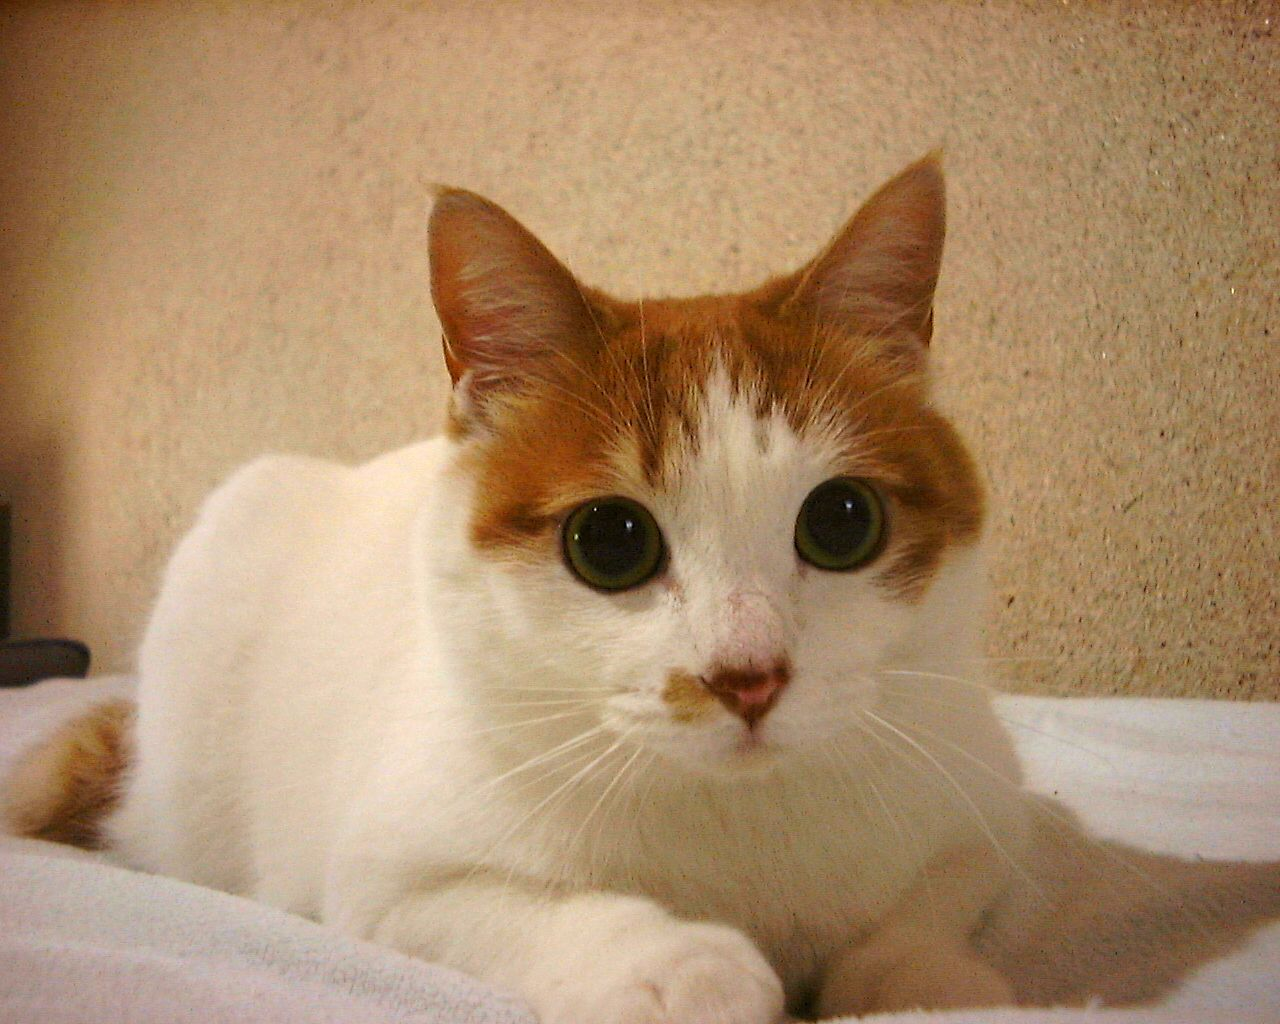
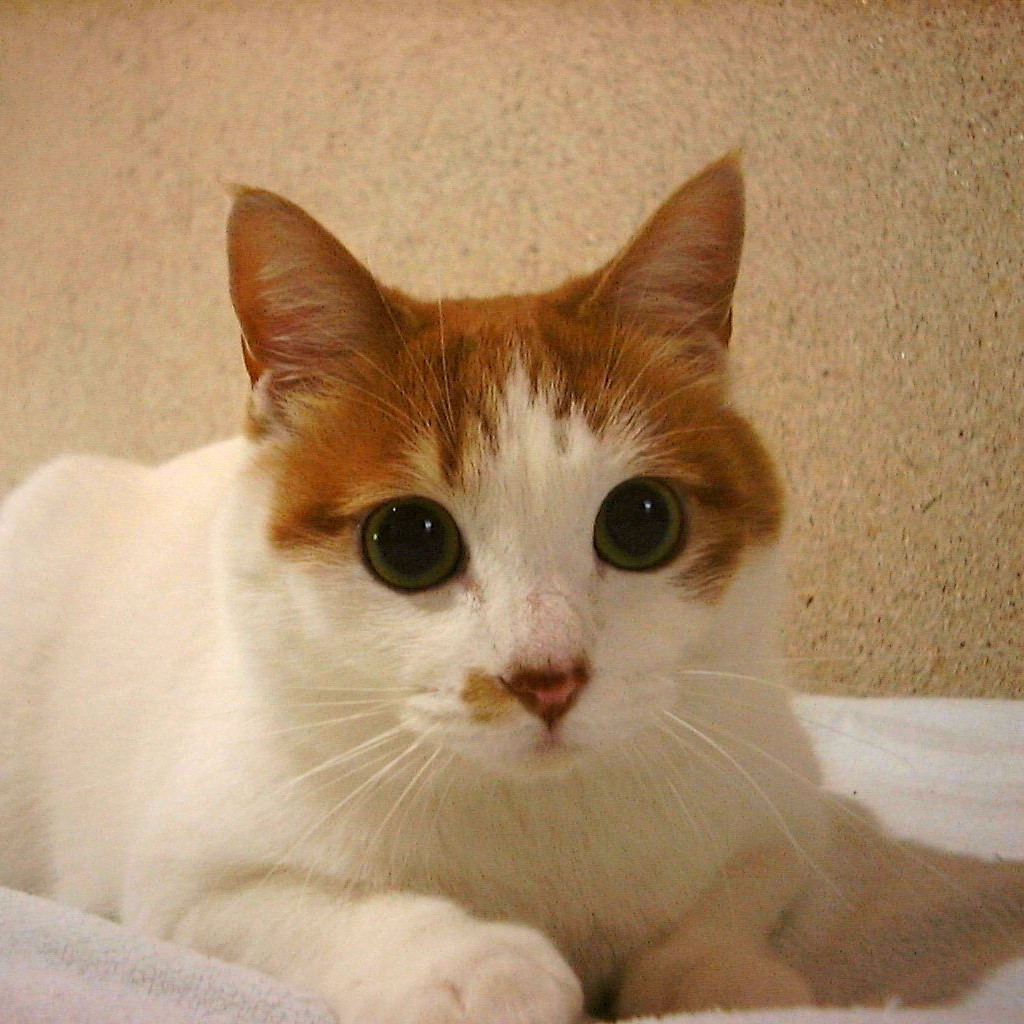
a

diff --git a/album/index2.html b/album/index2.html
@@ -1,0 +1,318 @@
+<!doctype html>
+<html lang="en" data-bs-theme="auto">
+  <head><script src="../assets/js/color-modes.js"></script>
+
+    <meta charset="utf-8">
+    <meta name="viewport" content="width=device-width, initial-scale=1">
+    <meta name="description" content="">
+    <meta name="author" content="Mark Otto, Jacob Thornton, and Bootstrap contributors">
+    <meta name="generator" content="Hugo 0.118.2">
+    <title>Carousel Template · Bootstrap v5.3</title>
+
+    <link rel="canonical" href="https://getbootstrap.com/docs/5.3/examples/carousel/">
+
+    
+
+    <link rel="stylesheet" href="https://cdn.jsdelivr.net/npm/@docsearch/css@3">
+
+<link href="../assets/dist/css/bootstrap.min.css" rel="stylesheet">
+
+    <style>
+      .bd-placeholder-img {
+        font-size: 1.125rem;
+        text-anchor: middle;
+        -webkit-user-select: none;
+        -moz-user-select: none;
+        user-select: none;
+      }
+
+      @media (min-width: 768px) {
+        .bd-placeholder-img-lg {
+          font-size: 3.5rem;
+        }
+      }
+
+      .b-example-divider {
+        width: 100%;
+        height: 3rem;
+        background-color: rgba(0, 0, 0, .1);
+        border: solid rgba(0, 0, 0, .15);
+        border-width: 1px 0;
+        box-shadow: inset 0 .5em 1.5em rgba(0, 0, 0, .1), inset 0 .125em .5em rgba(0, 0, 0, .15);
+      }
+
+      .b-example-vr {
+        flex-shrink: 0;
+        width: 1.5rem;
+        height: 100vh;
+      }
+
+      .bi {
+        vertical-align: -.125em;
+        fill: currentColor;
+      }
+
+      .nav-scroller {
+        position: relative;
+        z-index: 2;
+        height: 2.75rem;
+        overflow-y: hidden;
+      }
+
+      .nav-scroller .nav {
+        display: flex;
+        flex-wrap: nowrap;
+        padding-bottom: 1rem;
+        margin-top: -1px;
+        overflow-x: auto;
+        text-align: center;
+        white-space: nowrap;
+        -webkit-overflow-scrolling: touch;
+      }
+
+      .btn-bd-primary {
+        --bd-violet-bg: #712cf9;
+        --bd-violet-rgb: 112.520718, 44.062154, 249.437846;
+
+        --bs-btn-font-weight: 600;
+        --bs-btn-color: var(--bs-white);
+        --bs-btn-bg: var(--bd-violet-bg);
+        --bs-btn-border-color: var(--bd-violet-bg);
+        --bs-btn-hover-color: var(--bs-white);
+        --bs-btn-hover-bg: #6528e0;
+        --bs-btn-hover-border-color: #6528e0;
+        --bs-btn-focus-shadow-rgb: var(--bd-violet-rgb);
+        --bs-btn-active-color: var(--bs-btn-hover-color);
+        --bs-btn-active-bg: #5a23c8;
+        --bs-btn-active-border-color: #5a23c8;
+      }
+
+      .bd-mode-toggle {
+        z-index: 1500;
+      }
+
+      .bd-mode-toggle .dropdown-menu .active .bi {
+        display: block !important;
+      }
+    </style>
+
+    
+    <!-- Custom styles for this template -->
+    <link href="carousel.css" rel="stylesheet">
+  </head>
+  <body>
+    <svg xmlns="http://www.w3.org/2000/svg" class="d-none">
+      <symbol id="check2" viewBox="0 0 16 16">
+        <path d="M13.854 3.646a.5.5 0 0 1 0 .708l-7 7a.5.5 0 0 1-.708 0l-3.5-3.5a.5.5 0 1 1 .708-.708L6.5 10.293l6.646-6.647a.5.5 0 0 1 .708 0z"/>
+      </symbol>
+      <symbol id="circle-half" viewBox="0 0 16 16">
+        <path d="M8 15A7 7 0 1 0 8 1v14zm0 1A8 8 0 1 1 8 0a8 8 0 0 1 0 16z"/>
+      </symbol>
+      <symbol id="moon-stars-fill" viewBox="0 0 16 16">
+        <path d="M6 .278a.768.768 0 0 1 .08.858 7.208 7.208 0 0 0-.878 3.46c0 4.021 3.278 7.277 7.318 7.277.527 0 1.04-.055 1.533-.16a.787.787 0 0 1 .81.316.733.733 0 0 1-.031.893A8.349 8.349 0 0 1 8.344 16C3.734 16 0 12.286 0 7.71 0 4.266 2.114 1.312 5.124.06A.752.752 0 0 1 6 .278z"/>
+        <path d="M10.794 3.148a.217.217 0 0 1 .412 0l.387 1.162c.173.518.579.924 1.097 1.097l1.162.387a.217.217 0 0 1 0 .412l-1.162.387a1.734 1.734 0 0 0-1.097 1.097l-.387 1.162a.217.217 0 0 1-.412 0l-.387-1.162A1.734 1.734 0 0 0 9.31 6.593l-1.162-.387a.217.217 0 0 1 0-.412l1.162-.387a1.734 1.734 0 0 0 1.097-1.097l.387-1.162zM13.863.099a.145.145 0 0 1 .274 0l.258.774c.115.346.386.617.732.732l.774.258a.145.145 0 0 1 0 .274l-.774.258a1.156 1.156 0 0 0-.732.732l-.258.774a.145.145 0 0 1-.274 0l-.258-.774a1.156 1.156 0 0 0-.732-.732l-.774-.258a.145.145 0 0 1 0-.274l.774-.258c.346-.115.617-.386.732-.732L13.863.1z"/>
+      </symbol>
+      <symbol id="sun-fill" viewBox="0 0 16 16">
+        <path d="M8 12a4 4 0 1 0 0-8 4 4 0 0 0 0 8zM8 0a.5.5 0 0 1 .5.5v2a.5.5 0 0 1-1 0v-2A.5.5 0 0 1 8 0zm0 13a.5.5 0 0 1 .5.5v2a.5.5 0 0 1-1 0v-2A.5.5 0 0 1 8 13zm8-5a.5.5 0 0 1-.5.5h-2a.5.5 0 0 1 0-1h2a.5.5 0 0 1 .5.5zM3 8a.5.5 0 0 1-.5.5h-2a.5.5 0 0 1 0-1h2A.5.5 0 0 1 3 8zm10.657-5.657a.5.5 0 0 1 0 .707l-1.414 1.415a.5.5 0 1 1-.707-.708l1.414-1.414a.5.5 0 0 1 .707 0zm-9.193 9.193a.5.5 0 0 1 0 .707L3.05 13.657a.5.5 0 0 1-.707-.707l1.414-1.414a.5.5 0 0 1 .707 0zm9.193 2.121a.5.5 0 0 1-.707 0l-1.414-1.414a.5.5 0 0 1 .707-.707l1.414 1.414a.5.5 0 0 1 0 .707zM4.464 4.465a.5.5 0 0 1-.707 0L2.343 3.05a.5.5 0 1 1 .707-.707l1.414 1.414a.5.5 0 0 1 0 .708z"/>
+      </symbol>
+    </svg>
+
+    <div class="dropdown position-fixed bottom-0 end-0 mb-3 me-3 bd-mode-toggle">
+      <button class="btn btn-bd-primary py-2 dropdown-toggle d-flex align-items-center"
+              id="bd-theme"
+              type="button"
+              aria-expanded="false"
+              data-bs-toggle="dropdown"
+              aria-label="Toggle theme (auto)">
+        <svg class="bi my-1 theme-icon-active" width="1em" height="1em"><use href="#circle-half"></use></svg>
+        <span class="visually-hidden" id="bd-theme-text">Toggle theme</span>
+      </button>
+      <ul class="dropdown-menu dropdown-menu-end shadow" aria-labelledby="bd-theme-text">
+        <li>
+          <button type="button" class="dropdown-item d-flex align-items-center" data-bs-theme-value="light" aria-pressed="false">
+            <svg class="bi me-2 opacity-50 theme-icon" width="1em" height="1em"><use href="#sun-fill"></use></svg>
+            Light
+            <svg class="bi ms-auto d-none" width="1em" height="1em"><use href="#check2"></use></svg>
+          </button>
+        </li>
+        <li>
+          <button type="button" class="dropdown-item d-flex align-items-center" data-bs-theme-value="dark" aria-pressed="false">
+            <svg class="bi me-2 opacity-50 theme-icon" width="1em" height="1em"><use href="#moon-stars-fill"></use></svg>
+            Dark
+            <svg class="bi ms-auto d-none" width="1em" height="1em"><use href="#check2"></use></svg>
+          </button>
+        </li>
+        <li>
+          <button type="button" class="dropdown-item d-flex align-items-center active" data-bs-theme-value="auto" aria-pressed="true">
+            <svg class="bi me-2 opacity-50 theme-icon" width="1em" height="1em"><use href="#circle-half"></use></svg>
+            Auto
+            <svg class="bi ms-auto d-none" width="1em" height="1em"><use href="#check2"></use></svg>
+          </button>
+        </li>
+      </ul>
+    </div>
+
+    
+<header data-bs-theme="dark">
+  <nav class="navbar navbar-expand-md navbar-dark fixed-top bg-dark">
+    <div class="container-fluid">
+      <a class="navbar-brand" href="#">Carousel</a>
+      <button class="navbar-toggler" type="button" data-bs-toggle="collapse" data-bs-target="#navbarCollapse" aria-controls="navbarCollapse" aria-expanded="false" aria-label="Toggle navigation">
+        <span class="navbar-toggler-icon"></span>
+      </button>
+      <div class="collapse navbar-collapse" id="navbarCollapse">
+        <ul class="navbar-nav me-auto mb-2 mb-md-0">
+          <li class="nav-item">
+            <a class="nav-link active" aria-current="page" href="#">Home</a>
+          </li>
+          <li class="nav-item">
+            <a class="nav-link" href="#">Link</a>
+          </li>
+          <li class="nav-item">
+            <a class="nav-link disabled" aria-disabled="true">Disabled</a>
+          </li>
+        </ul>
+        <form class="d-flex" role="search">
+          <input class="form-control me-2" type="search" placeholder="Search" aria-label="Search">
+          <button class="btn btn-outline-success" type="submit">Search</button>
+        </form>
+      </div>
+    </div>
+  </nav>
+</header>
+
+<main>
+
+  <div id="myCarousel" class="carousel slide mb-6" data-bs-ride="carousel">
+    <div class="carousel-indicators">
+      <button type="button" data-bs-target="#myCarousel" data-bs-slide-to="0" class="active" aria-current="true" aria-label="Slide 1"></button>
+      <button type="button" data-bs-target="#myCarousel" data-bs-slide-to="1" aria-label="Slide 2"></button>
+      <button type="button" data-bs-target="#myCarousel" data-bs-slide-to="2" aria-label="Slide 3"></button>
+    </div>
+    <div class="carousel-inner">
+      <div class="carousel-item active">
+        <svg class="bd-placeholder-img" width="100%" height="100%" xmlns="http://www.w3.org/2000/svg" aria-hidden="true" preserveAspectRatio="xMidYMid slice" focusable="false"><rect width="100%" height="100%" fill="var(--bs-secondary-color)"/></svg>
+        <div class="container">
+          <div class="carousel-caption text-start">
+            <h1>Example headline.</h1>
+            <p class="opacity-75">Some representative placeholder content for the first slide of the carousel.</p>
+            <p><a class="btn btn-lg btn-primary" href="#">Sign up today</a></p>
+          </div>
+        </div>
+      </div>
+      <div class="carousel-item">
+        <svg class="bd-placeholder-img" width="100%" height="100%" xmlns="http://www.w3.org/2000/svg" aria-hidden="true" preserveAspectRatio="xMidYMid slice" focusable="false"><rect width="100%" height="100%" fill="var(--bs-secondary-color)"/></svg>
+        <div class="container">
+          <div class="carousel-caption">
+            <h1>Another example headline.</h1>
+            <p>Some representative placeholder content for the second slide of the carousel.</p>
+            <p><a class="btn btn-lg btn-primary" href="#">Learn more</a></p>
+          </div>
+        </div>
+      </div>
+      <div class="carousel-item">
+        <svg class="bd-placeholder-img" width="100%" height="100%" xmlns="http://www.w3.org/2000/svg" aria-hidden="true" preserveAspectRatio="xMidYMid slice" focusable="false"><rect width="100%" height="100%" fill="var(--bs-secondary-color)"/></svg>
+        <div class="container">
+          <div class="carousel-caption text-end">
+            <h1>One more for good measure.</h1>
+            <p>Some representative placeholder content for the third slide of this carousel.</p>
+            <p><a class="btn btn-lg btn-primary" href="#">Browse gallery</a></p>
+          </div>
+        </div>
+      </div>
+    </div>
+    <button class="carousel-control-prev" type="button" data-bs-target="#myCarousel" data-bs-slide="prev">
+      <span class="carousel-control-prev-icon" aria-hidden="true"></span>
+      <span class="visually-hidden">Previous</span>
+    </button>
+    <button class="carousel-control-next" type="button" data-bs-target="#myCarousel" data-bs-slide="next">
+      <span class="carousel-control-next-icon" aria-hidden="true"></span>
+      <span class="visually-hidden">Next</span>
+    </button>
+  </div>
+
+
+  <!-- Marketing messaging and featurettes
+  ================================================== -->
+  <!-- Wrap the rest of the page in another container to center all the content. -->
+
+  <div class="container marketing">
+
+    <!-- Three columns of text below the carousel -->
+    <div class="row">
+      <div class="col-lg-4">
+        <svg class="bd-placeholder-img rounded-circle" width="140" height="140" xmlns="http://www.w3.org/2000/svg" role="img" aria-label="Placeholder" preserveAspectRatio="xMidYMid slice" focusable="false"><title>Placeholder</title><rect width="100%" height="100%" fill="var(--bs-secondary-color)"/></svg>
+        <h2 class="fw-normal">Heading</h2>
+        <p>Some representative placeholder content for the three columns of text below the carousel. This is the first column.</p>
+        <p><a class="btn btn-secondary" href="#">View details &raquo;</a></p>
+      </div><!-- /.col-lg-4 -->
+      <div class="col-lg-4">
+        <svg class="bd-placeholder-img rounded-circle" width="140" height="140" xmlns="http://www.w3.org/2000/svg" role="img" aria-label="Placeholder" preserveAspectRatio="xMidYMid slice" focusable="false"><title>Placeholder</title><rect width="100%" height="100%" fill="var(--bs-secondary-color)"/></svg>
+        <h2 class="fw-normal">Heading</h2>
+        <p>Another exciting bit of representative placeholder content. This time, we've moved on to the second column.</p>
+        <p><a class="btn btn-secondary" href="#">View details &raquo;</a></p>
+      </div><!-- /.col-lg-4 -->
+      <div class="col-lg-4">
+        <svg class="bd-placeholder-img rounded-circle" width="140" height="140" xmlns="http://www.w3.org/2000/svg" role="img" aria-label="Placeholder" preserveAspectRatio="xMidYMid slice" focusable="false"><title>Placeholder</title><rect width="100%" height="100%" fill="var(--bs-secondary-color)"/></svg>
+        <h2 class="fw-normal">Heading</h2>
+        <p>And lastly this, the third column of representative placeholder content.</p>
+        <p><a class="btn btn-secondary" href="#">View details &raquo;</a></p>
+      </div><!-- /.col-lg-4 -->
+    </div><!-- /.row -->
+
+
+    <!-- START THE FEATURETTES -->
+
+    <hr class="featurette-divider">
+
+    <div class="row featurette">
+      <div class="col-md-7">
+        <h2 class="featurette-heading fw-normal lh-1">First featurette heading. <span class="text-body-secondary">It’ll blow your mind.</span></h2>
+        <p class="lead">Some great placeholder content for the first featurette here. Imagine some exciting prose here.</p>
+      </div>
+      <div class="col-md-5">
+        <svg class="bd-placeholder-img bd-placeholder-img-lg featurette-image img-fluid mx-auto" width="500" height="500" xmlns="http://www.w3.org/2000/svg" role="img" aria-label="Placeholder: 500x500" preserveAspectRatio="xMidYMid slice" focusable="false"><title>Placeholder</title><rect width="100%" height="100%" fill="var(--bs-secondary-bg)"/><text x="50%" y="50%" fill="var(--bs-secondary-color)" dy=".3em">500x500</text></svg>
+      </div>
+    </div>
+
+    <hr class="featurette-divider">
+
+    <div class="row featurette">
+      <div class="col-md-7 order-md-2">
+        <h2 class="featurette-heading fw-normal lh-1">Oh yeah, it’s that good. <span class="text-body-secondary">See for yourself.</span></h2>
+        <p class="lead">Another featurette? Of course. More placeholder content here to give you an idea of how this layout would work with some actual real-world content in place.</p>
+      </div>
+      <div class="col-md-5 order-md-1">
+        <svg class="bd-placeholder-img bd-placeholder-img-lg featurette-image img-fluid mx-auto" width="500" height="500" xmlns="http://www.w3.org/2000/svg" role="img" aria-label="Placeholder: 500x500" preserveAspectRatio="xMidYMid slice" focusable="false"><title>Placeholder</title><rect width="100%" height="100%" fill="var(--bs-secondary-bg)"/><text x="50%" y="50%" fill="var(--bs-secondary-color)" dy=".3em">500x500</text></svg>
+      </div>
+    </div>
+
+    <hr class="featurette-divider">
+
+    <div class="row featurette">
+      <div class="col-md-7">
+        <h2 class="featurette-heading fw-normal lh-1">And lastly, this one. <span class="text-body-secondary">Checkmate.</span></h2>
+        <p class="lead">And yes, this is the last block of representative placeholder content. Again, not really intended to be actually read, simply here to give you a better view of what this would look like with some actual content. Your content.</p>
+      </div>
+      <div class="col-md-5">
+        <svg class="bd-placeholder-img bd-placeholder-img-lg featurette-image img-fluid mx-auto" width="500" height="500" xmlns="http://www.w3.org/2000/svg" role="img" aria-label="Placeholder: 500x500" preserveAspectRatio="xMidYMid slice" focusable="false"><title>Placeholder</title><rect width="100%" height="100%" fill="var(--bs-secondary-bg)"/><text x="50%" y="50%" fill="var(--bs-secondary-color)" dy=".3em">500x500</text></svg>
+      </div>
+    </div>
+
+    <hr class="featurette-divider">
+
+    <!-- /END THE FEATURETTES -->
+
+  </div><!-- /.container -->
+
+
+  <!-- FOOTER -->
+  <footer class="container">
+    <p class="float-end"><a href="#">Back to top</a></p>
+    <p>&copy; 2017–2023 Company, Inc. &middot; <a href="#">Privacy</a> &middot; <a href="#">Terms</a></p>
+  </footer>
+</main>
+<script src="../assets/dist/js/bootstrap.bundle.min.js"></script>
+
+    </body>
+</html>

diff --git a/album/cats.html b/album/cats.html
@@ -147,7 +147,7 @@
         <div class="col">
           <div class="card shadow-sm">
             <div class="card-body">
-            <img src="./images/cat2.jpg" alt="cat 2">
+            <img src="./images/pexels-david-yu-10914514.jpg" alt="cat 2">
               <p class="card-text">This is a wider card with supporting text below as a natural lead-in to additional content. This content is a little bit longer.</p>
               <div class="d-flex justify-content-between align-items-center">
                 <div class="btn-group">
@@ -175,7 +175,7 @@
 
         <div class="col">
           <div class="card shadow-sm">
-            <img src="./images/cat4.jpg" alt = "cat 4">
+            <img src="./images/pexels-raymart-fadriquela-15236914.jpg" alt = "cat 4">
             <div class="card-body">
               <p class="card-text">This is a wider card with supporting text below as a natural lead-in to additional content. This content is a little bit longer.</p>
               <div class="d-flex justify-content-between align-items-center">
@@ -190,7 +190,7 @@
         <div class="col">
           <div class="card shadow-sm">
             <div class="card-body">
-            <img src="./images/cat5.jpg" alt = "cat 5">
+            <img src="./images/pexels-swapnil-kulkarni-8861204.jpg" alt = "cat 5">
               <p class="card-text">This is a wider card with supporting text below as a natural lead-in to additional content. This content is a little bit longer.</p>
               <div class="d-flex justify-content-between align-items-center">
                 <div class="btn-group">
@@ -204,7 +204,7 @@
         <div class="col">
           <div class="card shadow-sm">
             <div class="card-body">
-            <img src="./images/cat6.jpg" alt = "cat 6">
+            <img src="./images/pexels-zetong-li-18414753.jpg" alt = "cat 6">
               <p class="card-text">This is a wider card with supporting text below as a natural lead-in to additional content. This content is a little bit longer.</p>
               <div class="d-flex justify-content-between align-items-center">
                 <div class="btn-group">
@@ -214,6 +214,14 @@
             </div>
           </div>
         </div>
+
+        <div class="col-lg-4">
+            <!-- <svg class="bd-placeholder-img rounded-circle" width="140" height="140" xmlns="http://www.w3.org/2000/svg" role="img" aria-label="Placeholder" preserveAspectRatio="xMidYMid slice" focusable="false"><title>Placeholder</title><rect width="100%" height="100%" fill="var(--bs-secondary-color)"/></svg> -->
+            <img src="./images/pexels-david-yu-10914514.jpg" alt="test">
+            <h2 class="fw-normal">Heading</h2>
+            <p>Another exciting bit of representative placeholder content. This time, we've moved on to the second column.</p>
+            <p><a class="btn btn-secondary" href="#">View details &raquo;</a></p>
+          </div><!-- /.col-lg-4 -->
 
         </div>
       </div>

diff --git a/album/catsStyle.css b/album/catsStyle.css
@@ -1,6 +1,10 @@
 
 
 img{
-    width: auto;
-    height: 225px;
+    width: 250px;
+    height: 250px;
+}
+
+.card-body{
+    background-color: #c5ac98;
 }
